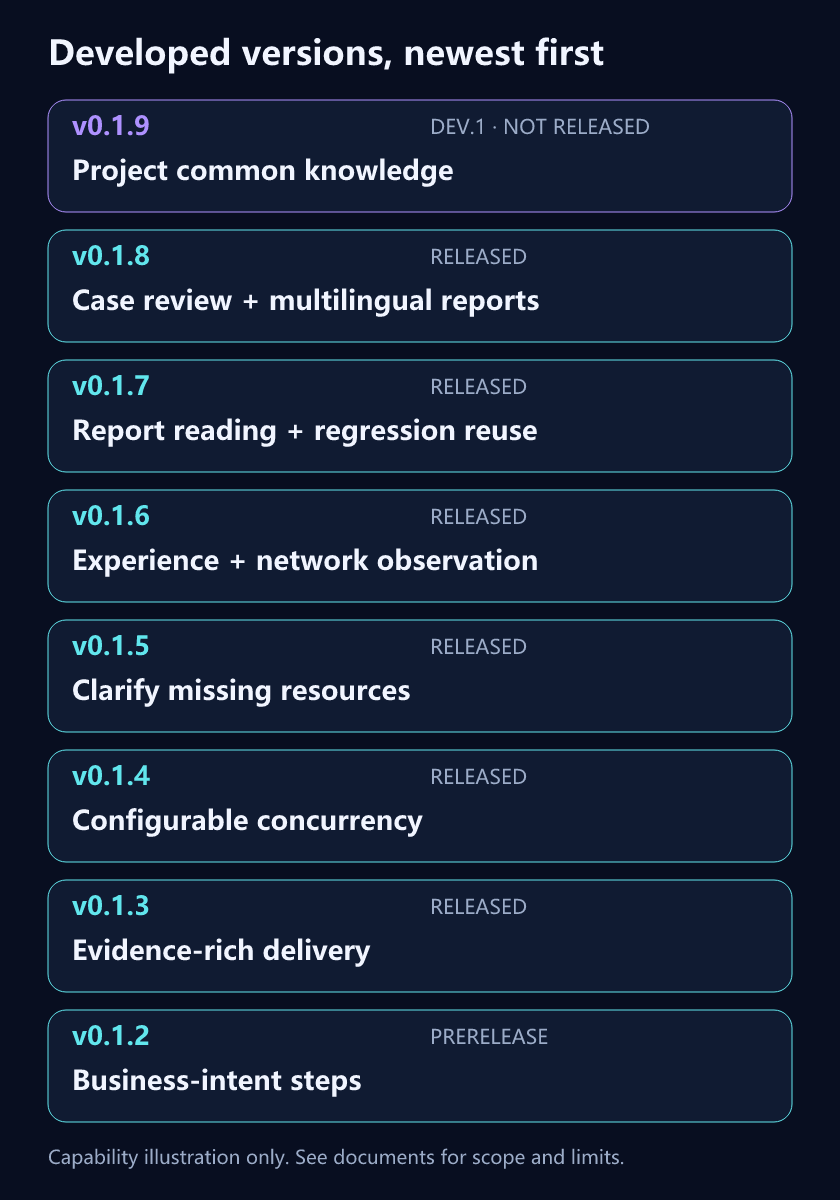
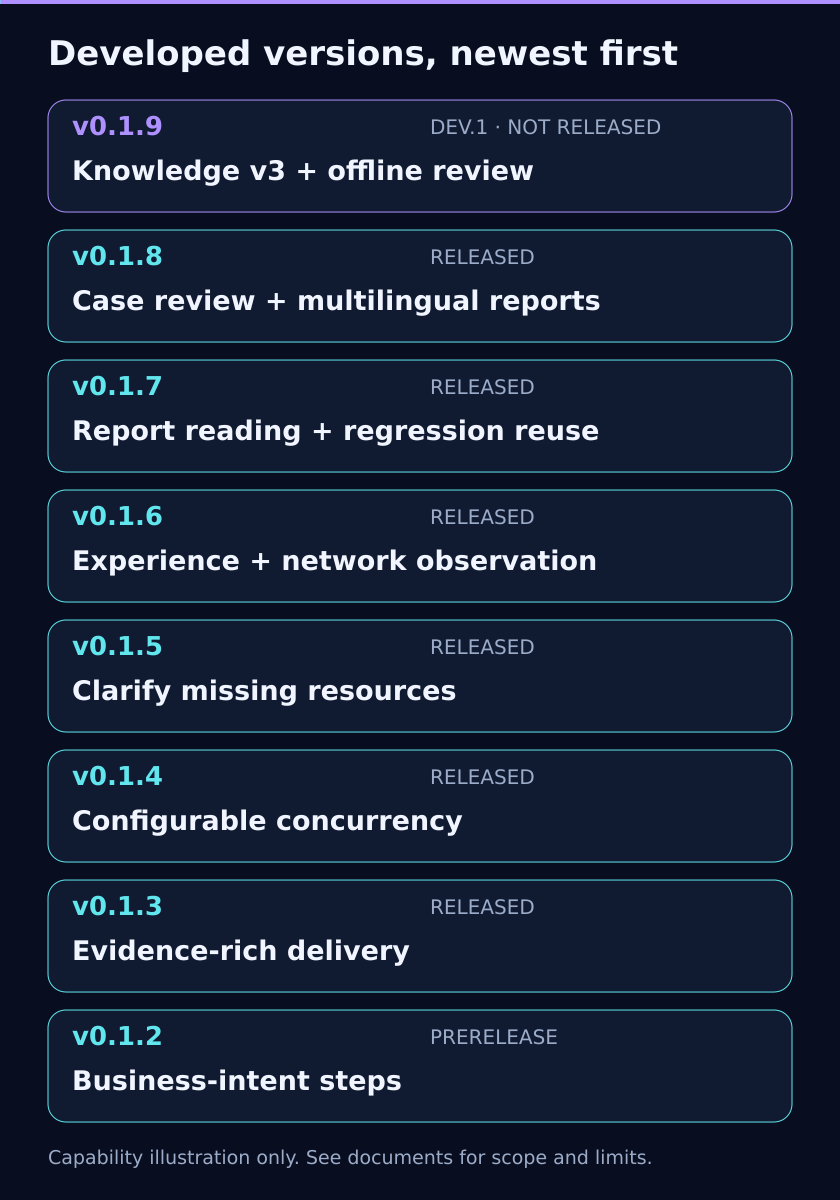
docs: refresh v0.1.9 knowledge collaboration and bilingual visuals

diff --git a/README.en.md b/README.en.md
@@ -18,16 +18,19 @@ As models improve, we aim to let AI use these capabilities more effectively. Act
 
 ![AI at the center selects parallel capabilities and adapts to factual feedback, not a fixed execution sequence.](docs/images/design-philosophy.png)
 
-## Current release
+## Companion tool: project knowledge maintenance
+
+[project-knowledge-maintainer](https://github.com/99Like-wjj/project-knowledge-maintainer) creates and updates project knowledge. Ego reads, queries and uses that independent asset during testing through shared **knowledge format v3**; the maintenance Skill is not a runtime query proxy. The maintenance repository is currently private and requires existing access. An inaccessible link does not disable other Ego testing capabilities.
+
+First, use the maintenance Skill with authorized materials and keep its output in a private directory outside source repositories. Then give Ego that directory and an independently confirmed project identity, using `knowledge inspect/query/read` on demand. Read again after updates; frozen cases and historical results are not rewritten. Maintenance is not required on every test run, and tasks can continue from existing sources without a knowledge base.
+
+Generic testing experience stays in Ego’s separate design/execution guides. Project maps, common rules and user-declared configuration/account notes stay in the knowledge base. Configuration uses lightweight records, not a mandatory permission matrix; feature-specific details remain in source requirements. Real knowledge, business materials and credentials are never shipped with either Skill. See the [knowledge usage guide (Chinese)](skills/ai-autonomous-testing-ego-lite/references/project-knowledge.md).
+
+## Current version
 
 This development version also makes review export fully offline and removes the review server. Open the local HTML to export readable, restorable review HTML or optional JSON. See [offline export validation](docs/v0.1.9-offline-review-export-validation.md).
 
 Source development version is **0.1.9-dev.1 / project-knowledge-3**, not formally released. Knowledge v3 keeps structured maps/rules and uses lightweight user-provided project/account records; exact context exports retain provenance; functional details remain in source requirements. Test contracts stay at v9. See [development validation](docs/v0.1.9-development-validation.md). The last stable package remains [v0.1.8](https://github.com/99Like-wjj/ai-autonomous-testing-ego-lite/releases/tag/v0.1.8).
-
-Retained capabilities and sources from the previous stable **0.1.8 / report-language-model-1** follow. It implements the approved lean case/review/run design, stable-point reruns, official Ego download evidence/file inspection and historical comparisons. The case reader now provides a scene/case overview, three-column review workbench, shared report themes and native feedback files that avoid browser download-zone metadata. Contracts are v9, regressionVersion 2 and networkVersion 1. Release notes, the installable package and checksums are available in [0.1.8](https://github.com/99Like-wjj/ai-autonomous-testing-ego-lite/releases/tag/v0.1.8). See [development validation](docs/v0.1.8-development-validation.md) and [review save details](docs/v0.1.8-case-review.md); builds do not update installed Skills. This revision adds [report language and two-stage model provenance](docs/v0.1.8-report-language-model-design.md), long scene IDs and baseline-aware scope labels.
-
-Adds provider-neutral conversation evidence, step input/reply summaries and the selected conversation drawer/fullscreen layout. Four quality layers address expected/observed phases, retained originals, readable findings and source validation; see the [design and validation](docs/v0.1.8-conversation-review.md). Main contracts remain v9; conversations use conversationVersion 1. Historical runs and reports are preserved.
-
 
 Invoke `$ai-autonomous-testing-ego-lite`. Complete packages include Skill guidance, compiled Node ESM tools, schemas, examples and an integrity manifest. Source is TypeScript; installed use requires Node.js >=22.
 
@@ -35,12 +38,14 @@ Invoke `$ai-autonomous-testing-ego-lite`. Complete packages include Skill guidan
 
 ![Newest first: v0.1.9 in development, then stable v0.1.8, v0.1.7 and v0.1.6. Capability illustration only.](docs/images/readme-version-history.png)
 
-README shows the current version plus three previous versions. 0.1.9 is in development, followed by stable 0.1.8, 0.1.7 and 0.1.6. [Full version history](docs/version-history.en.md) retains older releases. Hero, workflow, architecture, concurrency and report illustrations now describe this version, not real test evidence. See [release validation](docs/v0.1.8-release-validation.md) for the engineering and package verification scope.
+README shows the current version plus three previous versions. 0.1.9 is in development, followed by stable 0.1.8, 0.1.7 and 0.1.6. [Full version history](docs/version-history.en.md) retains older releases. Hero, workflow, architecture, concurrency and report illustrations now describe this version, not real test evidence. See [0.1.9 development validation](docs/v0.1.9-development-validation.md). Previous release checks do not establish a release of this development version.
 
 ## What changed in 0.1.9
 
 Adds optional project knowledge v3 inspection, bounded summaries and exact context exports, with project identity isolation and local Git/draft/conflict diagnostics. The independent maintenance Skill curates common rules; functional details stay in source requirements. Existing testing capabilities below remain available:
 
+- **Stage-specific testing experience.** Design guidance checks knowledge provenance/applicability; execution/recovery guidance handles changed knowledge without treating old observations as current acceptance evidence.
+- **Offline review export.** Export readable, restorable review HTML and optional JSON directly from the page, without a review server. Formal confirmation remains a separate record.
 - Whole case versions, stable IDs and same-source review; unchanged reruns add only a run.
 - points/status/full scope retains dependencies and never inherits unselected passes.
 - Official Ego download/saveAs, explicit manager reconciliation and read-only file facts.
@@ -49,7 +54,7 @@ Adds optional project knowledge v3 inspection, bounded summaries and exact conte
 - **Model provenance stays explicit.** Each report shows its corresponding stage’s model and reasoning effort in one place, retaining multiple configurations, unknown values and sources without inferring quality from model names.
 - **Readable conversations and long IDs.** Steps expose input/reply summaries and full conversation access. Long scene IDs wrap without truncation, and first-run/regression scope labels follow the actual comparison baseline.
 
-See [final design](docs/v0.1.8-design.md) and [contracts](docs/asset-formats.en.md).
+See the current [lightweight knowledge design](docs/project-knowledge-lightweight-integration-design.md), [task integration](skills/ai-autonomous-testing-ego-lite/references/project-knowledge.md) and [contracts](docs/asset-formats.en.md).
 
 Regression interfaces and behavior are documented in [regression assets](docs/regression-reuse.md) and the [usage guide](skills/ai-autonomous-testing-ego-lite/references/regression-reuse.md).
 
@@ -71,7 +76,7 @@ Network observation implements the v3 design through network start/status/query/
 
 ### Real case material and test report (redacted excerpts)
 
-These screenshots come from user-provided case material and an actual test report, preserving their original export layouts rather than redrawing simulated results. The case-review source is labeled “方案 B / 设计样稿” (Plan B / design prototype); it demonstrates that document’s review layout, not the default interface of a released 0.1.8 build. Screenshots retain the source language.
+These screenshots come from user-provided case material and an actual test report, preserving their original export layouts rather than redrawing simulated results. The case-review source is labeled “方案 B / 设计样稿” (Plan B / design prototype); it demonstrates that document’s review layout, not a new validation capture of the current 0.1.9 interface. Screenshots retain the source language.
 
 The excerpts select **2 scenarios and 7 goals** from an original run of **35 scenarios and 117 goals**: 3 verified, 1 violation, 1 inconclusive and 2 not tested. Original verdicts are preserved; the tests have not been rerun for this showcase. These counts describe only the displayed subset, not overall effectiveness or a full-run pass rate.
 
@@ -112,7 +117,7 @@ Identities, URLs, paths and related identifiers are redacted. Original full-reso
 
 ## Quick start on Windows
 
-This source example targets 0.1.8 in .build/runtime without replacing the user installation. Follow the [installation and upgrade guide (Chinese)](INSTALL.zh-CN.md), verifying the version, revision and actual loaded directory.
+This source example targets 0.1.9-dev.1 in .build/runtime without replacing the user installation. Follow the [installation and upgrade guide (Chinese)](INSTALL.zh-CN.md), verifying the version, revision and actual loaded directory.
 
 Download the full installation package, SHA-256 checksums and release notes from [v0.1.8 Release](https://github.com/99Like-wjj/ai-autonomous-testing-ego-lite/releases/tag/v0.1.8). GitHub-generated Source code archives are not full installation packages.
 
@@ -169,7 +174,7 @@ Spaces do not guarantee separate accounts or backend data. File updates are not 
 
 ![Independent workers capture evidence; the coordinator reviews and imports their packets.](docs/images/parallel.svg)
 
-Repair commit 8e6e2d9 is integrated while retaining v8 goal assessment and the API-monitoring design. Hosts own real workers, context, permissions, waiting and cleanup; this package adds no fixed host dispatcher. Read [host conditions and handoff (Chinese)](skills/ai-autonomous-testing-ego-lite/references/host-compatibility.md). Codex uses $ai-autonomous-testing-ego-lite; Claude Code uses /ai-autonomous-testing-ego-lite. Complete live host workflows still need separate acceptance. See the [integration record](docs/v0.1.6-cross-host-integration.md).
+Repair commit 8e6e2d9 is integrated while retaining goal assessment under the current v9 contract and the API-monitoring design. Hosts own real workers, context, permissions, waiting and cleanup; this package adds no fixed host dispatcher. Read [host conditions and handoff (Chinese)](skills/ai-autonomous-testing-ego-lite/references/host-compatibility.md). Codex uses $ai-autonomous-testing-ego-lite; Claude Code uses /ai-autonomous-testing-ego-lite. Complete live host workflows still need separate acceptance. See the [integration record](docs/v0.1.6-cross-host-integration.md).
 
 The default is **1 (serial)**. Without a user request for concurrency or an explicit setting, execute cases one at a time. Set `start --max-parallel-cases N` or project execution-config.json to opt in; N is a positive safe integer with no fixed 2/4/8 product ceiling. The AI chooses tool calls, batches and worker use within that limit; it need not fill all slots. Host limits are recorded only when explicitly available, otherwise unknown. No automatic host probing or global configuration changes occur. Workers seal local packets; the coordinator reviews and imports them. See the [parallel guide](skills/ai-autonomous-testing-ego-lite/references/parallel-testing.md). npm test builds and tests emitted JS; npm run check:public checks publishable source assets.
 

diff --git a/docs/testing.en.md b/docs/testing.en.md
@@ -1,5 +1,11 @@
 # Validation record and coverage limits
 
+See the [cloud documentation and engineering review (Chinese)](v0.1.9-cloud-documentation-validation.md).
+
+## Current v0.1.9 development validation
+
+Current source is `0.1.9-dev.1 / project-knowledge-3`, knowledge format v3, not released. See the 2026-11-04 lightweight v3 section in [development validation](v0.1.9-development-validation.md) and [offline review export validation](v0.1.9-offline-review-export-validation.md). Earlier v1/v2 sections are historical, not the current format. The user reports 264 local passes and two permission-related skips; cloud checks are recorded separately and do not convert local results into a cloud rerun or business acceptance. Earlier-version records follow.
+
 ## v0.1.8 cloud release validation (2026-11-02)
 
 Release identity is `0.1.8 / report-language-model-1`, with contracts v9, regressionVersion 2 and networkVersion 1. Linux / Node.js 24.22.1: 241 tests, 240 passed, none failed, one Windows-only checkpoint recovery skipped. Type/build/public checks and the lean ZIP verification passed. See [release validation (Chinese)](v0.1.8-release-validation.md) for engineering and lean-package checks. Builds/publication do not update the user installation, and real business UAT was not rerun.
@@ -10,21 +16,17 @@ That validation used 0.1.8-rc.2 / report-language-model-1, with contracts v9, re
 
 Earlier [development validation](v0.1.8-development-validation.md), [case review/save validation](v0.1.8-case-review.md) and [conversation review](v0.1.8-conversation-review.md) retain their individual scope. That earlier validation did not publish a formal release or update an installed Skill. Historical reports stay unchanged. All sections below are historical: their old commands, formats and then-planned capabilities are not current usage instructions.
 
-
 ## v0.1.7 release finalization (2026-10-31)
 
 The owner approved merging and publication. Package and Skill metadata are 0.1.7, revision report-step-evidence-1; the stable package and Codex display names have no dev/rc suffix. Linux / Node.js 24.22.1: 213 tests, 212 passed, 0 failed, 1 Windows-only checkpoint replacement-recovery skip. Type, contract/build, publication and Git diff checks passed. All 312 SVG text elements fit their canvases; 12 changed version illustrations were visually reviewed. See [release validation](v0.1.7-release-validation.md) for complete-package and ZIP verification scope. No real Ego/UAT rerun or automatic user installation; the sections below preserve historical stage results.
-
 
 ## v0.1.7 full documentation and illustration review (2026-10-31)
 
 Reviewed 88 Markdown files, including all 17 Skill references, plus the bilingual illustration set. Current guides were compared with v8 runtime contracts, CLI, report UI and regression selection; historical stage records retain their original evidence. Corrected stale contract prose, missing goal titles, report/context examples and delivery boundaries. Removed duplicate verification sections only after line-by-line equality checks. The README now leads with approved design philosophy and current 0.1.7 changes; v0.1.6 details remain in history, and developed versions run newest-first without v0.1.8 planning entries. All 16 generated illustrations have visual review; 312 SVG text elements remain inside their canvases; the existing contact QR is unchanged. New guards cover prose contracts, real case validation, history ordering, philosophy and relocated architecture images. The final suite has 211 tests: 210 passed, zero failed, one Windows-only checkpoint recovery skip; strict types, contract/build and public/link checks pass. No live Ego/UAT or user installation was rerun; no formal package, main merge, Tag or Release. See [review scope and changes](v0.1.7-cloud-review.md).
 
-
 ## v0.1.7 first cloud integration and documentation review (2026-10-31)
 
 All four candidate branch heads are ancestors of `6040a1a`; no duplicate merge was needed. The review branch updates bilingual documentation and twelve illustrations while preserving runtime behavior and v0.1.8 planning boundaries. Linux / Node v24.22.1: strict types, contract drift, build and public-file checks pass; 204 tests, 203 passed, zero failed, one Windows-only checkpoint recovery test skipped. All updated PNGs were visually inspected; 222 SVG text bounds remain inside their canvases. An initially missing review-document package entry was fixed and the full suite rerun. See [cloud review](v0.1.7-cloud-review.md) for scope and publication gates. No real Ego/UAT run, user installation, main merge, Tag or Release in this phase.
-
 
 ## v0.1.7 local closeout and v0.1.8 requirements (2026-10-31)
 
@@ -49,7 +51,6 @@ The v6 facts, evidence delivery, scene-first report and eight themes in 0.1.7-rc
 See the [release validation record (Chinese)](v0.1.6-release-validation.md) for the cloud checks and the maintainer’s scoped local trial. Candidate results below remain historical.
 
 
-
 ## v0.1.6 historical network-observation candidate (2026-10-28)
 
 0.1.6-rc.1 / native-network-observation-1 implements the v3 design. Regression: 115 tests, 114 passed, 0 failed, 1 Windows file-symlink privilege skip; 34 network tests. See [network validation (Chinese)](v0.1.6-network-validation.md) for real Ego, loopback data, standalone packaging and limits. Older results below remain historical.
@@ -65,7 +66,6 @@ The isolated repair branch preserves first failures, its 4/4 entrypoint checks a
 Current validation scope is the unified v5 contracts, business-goal granularity, shared serial/parallel records, incremental updates/history, three-format report consistency, explicit legacy rejection and documentation examples. Meaningful checks include missing assessments staying separate from business outcomes, violations with unknown causes, required-semantics coverage, historical attempts not changing current results, evidence/reference integrity rejection and follow-up links preserving original claims.
 
 That validation used version/revision: 0.1.6-rc.1 / goal-assessment-1. Historical counts below apply only to their original versions; current commands, results and limitations must come from this delivery's validation record. Scoped isolated Ego observations are listed below; guidance or API names alone do not validate other capabilities. Synthetic checks do not substitute for UAT; builds do not update the user's installed Skill or constitute a formal release.
-
 
 Engineering regression on Windows / Node.js v24.19.0: **88 tests, 87 PASS, 0 FAIL, 1 SKIP** (file-symlink creation privilege unavailable). Strict compilation, contracts, standalone package and report tests passed. See the [detailed current validation record](v0.1.6-goal-assessment-validation.md) for first failures, independent case-design review and limitations.
 
@@ -108,7 +108,6 @@ Ego opened local bilingual desktop/360px previews and synthetic reports; DOM, in
 
 Fixed source `c56a9cf` passed strict types, contract drift checks, compilation, 96/96 synthetic tests (0 failures, 0 skips), and current-tree publication checks on Linux / Node v24.22.1. Integration preserves main's Chinese default entry, contacts, QR code, and company-name cleanup, and updates both language guides. This does not replace Windows permission skips or constitute a rerun of real UAT. Historical evidence and limits remain. See release notes for final integrated-tree and package checks.
 
-
 The integrated documentation tree also passed all 96 synthetic tests, type checks, and current-tree checks. A bilingual parallel diagram was added and the hero version updated to 0.1.4. The first rerun failed the old eight-image count; updating the assertion to the ten-image set restored a full pass, retaining byte comparisons and overwrite refusal checks.
 
 ## C/B shared capabilities and metadata reads (2026-10-24)
@@ -146,7 +145,6 @@ Version, Skill metadata and runtime checks are aligned at 0.1.3. The full Linux 
 Not run: four symlink scenarios, full mobile visual acceptance, and new-session acceptance of real business screenshot capture/default delivery. On 2026-10-22, the owner reported no major issues in local trial use, accepted the version, and authorized merging and release. This does not establish that the listed untested scopes passed.
 
 ## Historical checks before this repair
-
 
 On 2026-10-22, Linux / Node v24.19.0: `npm test` passed 56/56 tests (44 helper tests and 12 publication-checker tests), with zero failures or skips. `npm run check:public` passed and printed the current 64-file allowlisted manifest. These checks cover this branch's local helper and synthetic assets; they are not Ego or application tests.
 

diff --git a/README.md b/README.md
@@ -18,15 +18,19 @@
 
 ![AI 位于中心，按需调用并列能力并根据事实反馈调整方法；不是固定执行顺序。](docs/images/design-philosophy.zh-CN.png)
 
+## 配套工具：项目知识库维护 Skill
+
+[project-knowledge-maintainer](https://github.com/99Like-wjj/project-knowledge-maintainer) 负责创建、维护和更新项目知识库。本仓库负责在测试时按需读取、查询和使用知识，二者通过独立的**项目知识格式 v3**协作，而不是相互代理调用。维护仓库目前为私有，需要已有访问权限；链接不可访问不影响 Ego 的其他测试能力。
+
+使用顺序：先在授权范围内由维护 Skill 整理项目资料，保存到源码仓库外的私有知识目录；再向 Ego 提供该目录及独立确认的项目身份，按需调用 `knowledge inspect/query/read`。更新知识后重新读取，不自动改写已冻结用例或历史结果。无需在每次测试中调用维护 Skill；没有知识库时继续已有资料支持的工作。
+
+通用测试经验留在 Ego 的设计/执行指南中，项目特有地图、公共规则和用户声明的配置/账号说明留在知识库中。配置是轻量记录，不强制建立权限矩阵；功能细则仍按任务读取原始需求。真实知识、原始业务资料和凭据不随任何 Skill 发布。详见[知识使用指南](skills/ai-autonomous-testing-ego-lite/references/project-knowledge.md)。
+
 ## 当前版本
 
 本开发版另将评审结果导出改为完整离线能力，移除审阅服务器；直接打开HTML可导出可读、可恢复的评审HTML及可选JSON。范围和验证见[离线导出自测](docs/v0.1.9-offline-review-export-validation.md)。
 
 当前源码开发版为 **0.1.9-dev.1 / project-knowledge-3**，尚未正式发布。项目知识v3保留结构化地图/规则，账号与项目配置改为用户提供的轻量记录，支持按需读取和精确摘录；无知识库时继续已有资料支持的任务。功能细则仍按需读取需求，测试主契约保持 v9。开发范围与验证见[开发自测](docs/v0.1.9-development-validation.md)。上一正式版及完整安装包仍为 [v0.1.8](https://github.com/99Like-wjj/ai-autonomous-testing-ego-lite/releases/tag/v0.1.8)。
-
-以下为上一正式版 **0.1.8 / report-language-model-1** 的保留能力与来源。按已确认的轻量设计开发用例版本与人工审阅、稳定编号重测、官方下载取证和文件检查、历次报告对照。新增场景/用例总览、三栏评审、报告同款背景，以及避开浏览器下载区域标记的本机意见保存。主契约 v9、regressionVersion 2、networkVersion 1。正式发布、安装包与校验值见 [0.1.8](https://github.com/99Like-wjj/ai-autonomous-testing-ego-lite/releases/tag/v0.1.8)。范围见[开发自测](docs/v0.1.8-development-validation.md)和[审阅修复说明](docs/v0.1.8-case-review.md)，构建不自动更新已安装 Skill。当前修订增加[报告语言与两阶段模型来源](docs/v0.1.8-report-language-model-design.md)、长编号布局及首次执行范围文案。
-
-新增通用对话证据、每步输入/回复摘要和方案2完整对话侧栏；四层质量改进覆盖预期/时机核对、原文取证、可读描述和来源校验，详见[本次设计及验证](docs/v0.1.8-conversation-review.md)。主契约仍为v9，独立对话格式为conversationVersion 1；历史运行与报告不改写。
 
 Skill 标识为 `ai-autonomous-testing-ego-lite`，显式调用 `$ai-autonomous-testing-ego-lite`。完整包提供 Skill、指南、Node ESM 工具、schema、示例和文件清单。源码维护 TypeScript，安装使用 Node.js >=22。
 
@@ -34,12 +38,14 @@ Skill 标识为 `ai-autonomous-testing-ego-lite`，显式调用 `$ai-autonomous-
 
 ![最新在前：v0.1.9 为开发版，其后为 v0.1.8、v0.1.7、v0.1.6 正式版。图为能力示意，非测试截图。](docs/images/readme-version-history.zh-CN.png)
 
-README 展示当前版本与前三个历史版本：0.1.9 为当前开发版，0.1.8、0.1.7、0.1.6 为前三个正式版本。更早版本及完整介绍保留在[完整版本演变](docs/version-history.md)中。头图、流程、架构、并发与报告示意已对齐本版本；图片是能力说明，不是真实测试证据。本次工程与安装包验证范围见[发布验证](docs/v0.1.8-release-validation.md)。
+README 展示当前版本与前三个历史版本：0.1.9 为当前开发版，0.1.8、0.1.7、0.1.6 为前三个正式版本。更早版本及完整介绍保留在[完整版本演变](docs/version-history.md)中。头图、流程、架构、并发与报告示意已对齐本版本；图片是能力说明，不是真实测试证据。本开发版范围见[0.1.9 开发自测](docs/v0.1.9-development-validation.md)；上一正式版的发布验证不代表本版已发版。
 
 ## 0.1.9 做了什么
 
 提供项目知识v3的项目配置、功能地图、规则/角色和账号说明只读检索；支持项目身份隔离、本地 Git/草案和冲突/失效诊断。通用规则由独立维护 Skill 整理，功能细则仍留原文。下列既有测试能力继续保留：
 
+- **通用经验按阶段补强。** 设计阶段核对知识来源与适用性，执行/恢复阶段识别知识变化；不把过时观察当作当前验收依据。
+- **离线审阅导出。** 直接从 HTML 导出可读、可恢复的评审 HTML 和可选 JSON，不启动审阅服务器；正式审阅确认仍单独登记。
 - 用例整份版本、内嵌稳定编号及同源 HTML/Markdown 审阅；定义不变复测只增 run。
 - points/status/full 三种范围，局部重测保留必要依赖，不继承未选点通过。
 - 官方 Ego 下载监听/saveAs、显式管理页补证、原件及只读 JSON/CSV/XLSX 检查。
@@ -48,7 +54,7 @@ README 展示当前版本与前三个历史版本：0.1.9 为当前开发版，0
 - **模型来源清楚可查。** 两类报告分别在一处展示对应阶段的模型和思考等级，保留多配置、未知项及来源，不凭模型名称推断质量。
 - **对话和长编号更易阅读。** 步骤展示输入/回复摘要及完整对话入口，长场景编号完整换行；首次执行与回归根据实际比较基准说明范围。
 
-详见[最终设计](docs/v0.1.8-design.md)及[当前契约](docs/asset-formats.md)。
+本版设计见[轻量知识集成](docs/project-knowledge-lightweight-integration-design.md)、[按任务使用](skills/ai-autonomous-testing-ego-lite/references/project-knowledge.md)及[当前契约](docs/asset-formats.md)。
 
 回归接口与行为边界见[回归资料](docs/regression-reuse.md)和[回归使用指南](skills/ai-autonomous-testing-ego-lite/references/regression-reuse.md)。
 
@@ -70,7 +76,7 @@ README 展示当前版本与前三个历史版本：0.1.9 为当前开发版，0
 
 ### 真实用例与测试报告（脱敏节选）
 
-以下截图来自用户提供的实际用例资料和测试报告，保留原始导出格式；不是重绘的模拟结果。用例审阅原件带有“方案 B／设计样稿”标签，仅用于展示这份资料的审阅格式，不代表 0.1.8 正式版的默认界面。
+以下截图来自用户提供的实际用例资料和测试报告，保留原始导出格式；不是重绘的模拟结果。用例审阅原件带有“方案 B／设计样稿”标签，仅用于展示这份资料的审阅格式，不是当前 0.1.9 界面的重新验收截图。
 
 从原整轮 **35 个场景、117 个目标**中精选 **2 个场景、7 个目标**：3 个已验证、1 个发现违反、1 个无法判断、2 个未测试。节选保留原结论，未重新执行测试；统计只代表这些展示样本，不代表整体效果或通过率。
 

diff --git a/docs/architecture.en.md b/docs/architecture.en.md
@@ -2,7 +2,20 @@
 
 ![Architecture responsibilities: AI, Ego and deterministic tools.](images/architecture.png)
 
-knowledge/commands adds read-only inspection, task summaries and exact reads using format v3 shared with the independent maintenance project. The optional project/modules/rules/accounts categories are read on demand. Only matched common knowledge enters the AI context; sources, state, scope and local-version limits remain explicit. Functional details stay in source requirements. External knowledge is outside the cases/reviews/runs ledger and grants no operation permissions. The retained diagram shows the original test chain; knowledge is optional external context.
+## Knowledge maintenance and test-time use
+
+[project-knowledge-maintainer](https://github.com/99Like-wjj/project-knowledge-maintainer) is an independent creation/maintenance tool; its repository is private and requires existing access. It curates authorized materials into project knowledge outside source repositories. Ego reads format v3 directly with its own tools, not through a maintenance query proxy. Generic testing experience stays in Ego guidance; project knowledge is neither part of the test ledger nor shipped in an installation package.
+
+```mermaid
+flowchart LR
+  M[project-knowledge-maintainer] -->|create / update| K[Independent knowledge v3]
+  K -->|inspect / query / read| T[Ego knowledge tools]
+  T -->|context with provenance| A[AI plans and tests]
+  G[Generic testing experience] --> A
+  R[Current requirements and authorization] --> A
+```
+
+knowledge/commands adds read-only inspection, task summaries and exact reads using format v3 shared with the independent maintenance project. The optional project/modules/rules/accounts categories are read on demand. Only matched common knowledge enters the AI context; sources, state, scope and local-version limits remain explicit. Functional details stay in source requirements. External knowledge is outside the cases/reviews/runs ledger and grants no operation permissions. Knowledge is optional task context, not a mandatory prerequisite or fixed business route.
 
 Current development contracts use version 9, regressionVersion 2 and networkVersion 1. AI owns interpretation, planning, exploration, action choice and business assessment. Ego owns browser primitives. Local code owns deterministic transactions, integrity, file reading and report presentation, without a business decision tree or automatic retries.
 
@@ -20,7 +33,7 @@ core/conversations and conversation-store validate conversationVersion 1, retain
 
 case-reader provides the scene/case overview and three-column workbench. review-ui generates readable review HTML with embedded feedback, or optional JSON, directly in the offline page. File-picker saving and explicit downloading need no server. review-feedback-document is shared by the browser and optional CLI; review-export handles CLI file transactions only. Drafts and exported feedback remain separate from formal reviews; see [offline review export](case-review.md).
 
-See [contracts](asset-formats.en.md), [regression reuse](regression-reuse.md) and [development validation](v0.1.8-development-validation.md). Historical user data is not migrated or overwritten.
+See [contracts](asset-formats.en.md), [regression reuse](regression-reuse.md) and [current development validation](v0.1.9-development-validation.md). Historical user data is not migrated or overwritten.
 
 ## Report language and model provenance
 

diff --git a/docs/v0.1.9-cloud-documentation-validation.md b/docs/v0.1.9-cloud-documentation-validation.md
@@ -1,0 +1,36 @@
+# 0.1.9 云端图文复核（开发版）
+
+## 范围与基线
+
+- 复核日期：2026-11-04。
+- 源码基线：`f437c64354783248b90912e70c6b9a438211715a`，开发分支 `feat/v0.1.9-project-knowledge`。
+- 本次仅更新介绍、架构、历史说明、配图与文档回归断言，未更改运行时业务逻辑或版本号。
+- 当前身份仍为 `0.1.9-dev.1 / project-knowledge-3`；主测试契约 v9、知识格式 v3。本记录不表示已经合并或发布。
+
+## 图文修复
+
+- 中英文 README 在设计理念后说明独立维护 Skill 的职责、私有访问限制和使用顺序。维护端创建/更新知识，Ego 自行按需检查、查询、读取；二者不通过维护端代理查询。
+- 理念、架构、流程图加入“维护 Skill → 独立知识 v3 → Ego 直接读取”，保留 AI 决策、工具记录的职责。知识是可选上下文，不是每次测试的强制前置阶段。
+- 当前介绍、架构、格式和测试入口统一到 0.1.9 开发版；0.1.8 安装包链接仍明确为上一正式版。历史验证保留原结论，早期 v1/v2 知识设计明确标记被 v3 相应内容替代。
+- 相邻仓库相对链接替换为维护端开发分支链接，标明访问权限要求；不能访问该私有仓库不等于 Ego 运行失败。
+- 账号与项目配置表述为用户提供的轻量记录，不声称自动推导权限或强制权限矩阵。通用测试经验与项目知识分开，真实知识、业务资料与凭据不进入源码或安装包。
+- 从同一图源重新生成变更的 SVG/PNG，检查中英文 12 张变更 PNG 的文字和布局。原真实报告脱敏节选与联系方式未重绘或替换。
+
+## 工程验证
+
+| 检查 | 结果 |
+| --- | --- |
+| `npm run typecheck` | 通过 |
+| `npm test`（含构建） | 267 项：266 通过、0 失败、1 跳过 |
+| 跳过项 | Windows checkpoint 替换失败的专用测试；本次在 Linux 运行 |
+| 图文专项测试 | 9 项通过，包含两种语言的维护/读取职责与前置入口 |
+| `npm run check:public` | 通过 |
+| 修改 Markdown 的本地文件链接 | 检查 223 个，无不存在的目标；不包含外链授权可达性或锚点语义检查 |
+| `git diff --check` | 通过 |
+| runtime 暂存 | 清单 163 项，含清单自身共 164 个文件，通过白名单/完整性校验；未生成发布压缩包 |
+
+暂存 runtime 仅保留安装所需的契约/使用说明等白名单文档，不含设计文档、宣传配图或真实项目知识。暂存校验不能替代未来正式发布包的独立验证。
+
+## 限制与待审
+
+公开内容检查是当前文件的启发式扫描，不保证检测所有凭据、业务隐私或 Git 历史内容。配图为能力示意，不是实际业务验收证据。本次未重新执行真实业务测试或完整宿主端验收，也未安装更新用户本地 Skill。文档修订仍需人工审阅，通过后另行执行合并及发版。

diff --git a/docs/version-history.en.md b/docs/version-history.en.md
@@ -4,11 +4,13 @@
 
 The AI interprets goals and judges business outcomes, Ego operates the browser, and local tools retain evidence and deliver reports.
 
-![Newest first: v0.1.8 released, then v0.1.7 released, v0.1.6, v0.1.5, v0.1.4, v0.1.3 and v0.1.2. Capability illustration only.](images/version-history.png)
+![Newest first: 0.1.9 development, followed by historical 0.1.8 through 0.1.2; capability illustration only.](images/version-history.png)
 
 ## v0.1.9 · Project common knowledge (development, not released)
 
 0.1.9-dev.1 adds optional knowledge v3 lookup across structured rules/maps and lightweight project/account records and task-scoped use; main contracts stay v9. See [development validation](v0.1.9-development-validation.md). No formal release package, tag or release has been created.
+
+This version also strengthens knowledge-related design/execution guidance and supports offline review HTML/JSON exports. The companion [project-knowledge-maintainer](https://github.com/99Like-wjj/project-knowledge-maintainer) creates and updates knowledge; Ego reads format v3 directly. The maintenance repository is private; this link does not grant access.
 
 ## v0.1.8 · Stable release
 
@@ -32,7 +34,7 @@ v0.1.6 also concretized design/execution topics and misjudgment examples, shared
 
 ### v0.1.6 detailed capabilities and validation sources
 
-v0.1.6 delivered more than experience documentation: goal assessment, unified serial/parallel records, native network observation and the linked CLI/host handoff fix. The current version continues these capabilities. v0.1.6 used schema v5; the current v0.1.7 v8 contract is not attributed retroactively to that release.
+v0.1.6 delivered more than experience documentation: goal assessment, unified serial/parallel records, native network observation and the linked CLI/host handoff fix. The current version continues these capabilities. v0.1.6 used schema v5; the later v0.1.7 v8 contract is not attributed retroactively to that release.
 
 - Stage-specific design and execution experience: concise stable indexes and concrete scenarios for prerequisites, data relationships, boundaries/roles, unknown submissions, drag/download, asynchronous observations and recovery risks. Navigation checks and semantic exercises support human-maintained, read-only guidance; there is no RAG, automatic learning or fixed business route.
 

diff --git a/docs/asset-formats.en.md b/docs/asset-formats.en.md
@@ -1,6 +1,6 @@
-# Contracts — v9 / 0.1.8
+# Contracts — v9 / 0.1.9-dev.1
 
-This release adds optional Observation.phase, Assessment.display and ActionFact inputSummary/replySummary/inputPresentation/conversations. Facts and four-state judgments remain separate. Missing data is not inferred from plans. conversationVersion 1 records provider-neutral messages, source references, fidelity, coverage and completion basis; see schemas/conversation.schema.json and examples/conversation.example.json. Local source IDs map to retained same-case originals through metadata.conversationSources; parallel imports remap external IDs without changing artifact bytes. Limits: 8MiB per artifact and 262144 UTF-16 code units per message. Explicitly scoped parts are authored by AI rather than silently truncated.
+Retained from 0.1.8: optional Observation.phase, Assessment.display and ActionFact inputSummary/replySummary/inputPresentation/conversations. Facts and four-state judgments remain separate. Missing data is not inferred from plans. conversationVersion 1 records provider-neutral messages, source references, fidelity, coverage and completion basis; see schemas/conversation.schema.json and examples/conversation.example.json. Local source IDs map to retained same-case originals through metadata.conversationSources; parallel imports remap external IDs without changing artifact bytes. Limits: 8MiB per artifact and 262144 UTF-16 code units per message. Explicitly scoped parts are authored by AI rather than silently truncated.
 
 Retrospective context.conversations binds SHA-verified files to actual current-goal actions, without changing original results. HTML offers the selected drawer/fullscreen conversation layout, step summaries and source inspection. Auto delivery includes original registered conversation files in a bundle. verify-report reviewPrompts identify structural readability/phase/summary gaps without choosing a verdict or a follow-up action. No site-specific protocol adapter is included.
 

diff --git a/docs/v0.1.9-development-validation.md b/docs/v0.1.9-development-validation.md
@@ -2,7 +2,7 @@
 
 当前源码结果见本文2026-11-04轻量v3节；此前v1/v2内容保留为各阶段验证历史。
 
-> 项目知识v2的当前源码验证见文末2026-11-03小节；原阶段结果保留。
+> 下方 v1/v2 内容为对应日期的历史阶段；当前格式 v3 结果以 2026-11-04 小节为准。
 
 日期：2026-11-02。源码 **0.1.9-dev.1 / project-knowledge-1**，独立知识格式 **v1**；测试主契约 v9、回归 2、网络 1。本地分支 feat/v0.1.9-project-knowledge。当前完成开发自测，未安装、推送或发布。
 
@@ -56,7 +56,7 @@ A 的公共规则与旧环境观察独立返回；新条款使用新来源，旧
 
 ## 2026-11-03：项目知识v2实现与合成回归
 
-本节是当前源码结果；此前v1阶段与其他验证记录保持原样。当前0.1.9-dev.1 / project-knowledge-2，knowledgeFormatVersion及knowledgeReadVersion为2，测试主契约仍为v9。
+本节记录 2026-11-03 的 v2 阶段；已由后续 v3 更新取代，历史验证记录保持原样。当前0.1.9-dev.1 / project-knowledge-2，knowledgeFormatVersion及knowledgeReadVersion为2，测试主契约仍为v9。
 
 已实现四类资料的摘要/精确读取、模块到页面/角色/规则的显式展开、身份与范围诊断、账号摘要隐藏登录标识和逻辑引用、精确账号声明读取、源不可用的可选返回及不可变知识摘录。无根目录不读请求文件、不探测库；类别缺省/局部损坏/错项目/旧格式/在途写入分别表达，不把知识库作为整轮测试门禁。设计、资源准备和执行指南按阶段增加主动按需检索提示，不固化业务路线、账号选择或结论。
 

diff --git a/docs/v0.1.9-current-state-review.md b/docs/v0.1.9-current-state-review.md
@@ -1,8 +1,10 @@
 # v0.1.9 设计前现状核对
 
+> 跨仓库链接指向维护项目开发分支；该仓库当前私有，需要已有访问权限，不是 Ego 运行时依赖。
+
 本文保留开发前基线：Ego 9769ea4929acf6c56ebc5c3bf89996fc30249150、维护仓库 a467a6e02760c87cfcb13cb107b8134c69b584e4。下列现状与 VERIFY 行号是当时核对结果，不用于证明开发后的当前实现；新代码与检查结果见[本次开发自测](v0.1.9-development-validation.md)。
 
-日期：2026-11-02。范围仅限知识接入需要的入口、来源契约、冻结行为及通用经验；不是整个 Ego 代码库的架构审计。Ego 侧提案见[知识使用与检索设计](v0.1.9-project-knowledge-use-design.md)；知识维护与共享格式设计保存在[维护仓库](../../project-knowledge-maintainer/docs/v0.1.9-requirements-and-design.md)。
+日期：2026-11-02。范围仅限知识接入需要的入口、来源契约、冻结行为及通用经验；不是整个 Ego 代码库的架构审计。Ego 侧提案见[知识使用与检索设计](v0.1.9-project-knowledge-use-design.md)；知识维护与共享格式设计保存在[维护仓库](https://github.com/99Like-wjj/project-knowledge-maintainer/blob/feat/v0.1.0-project-knowledge/docs/v0.1.9-requirements-and-design.md)。
 
 本文的 `VERIFY` 路径以 Ego 仓库根目录为基准；`../project-knowledge-maintainer/` 指同级维护仓库。引用校验只检查文件和行号有效性，具体语义还须人工对照源码。
 
